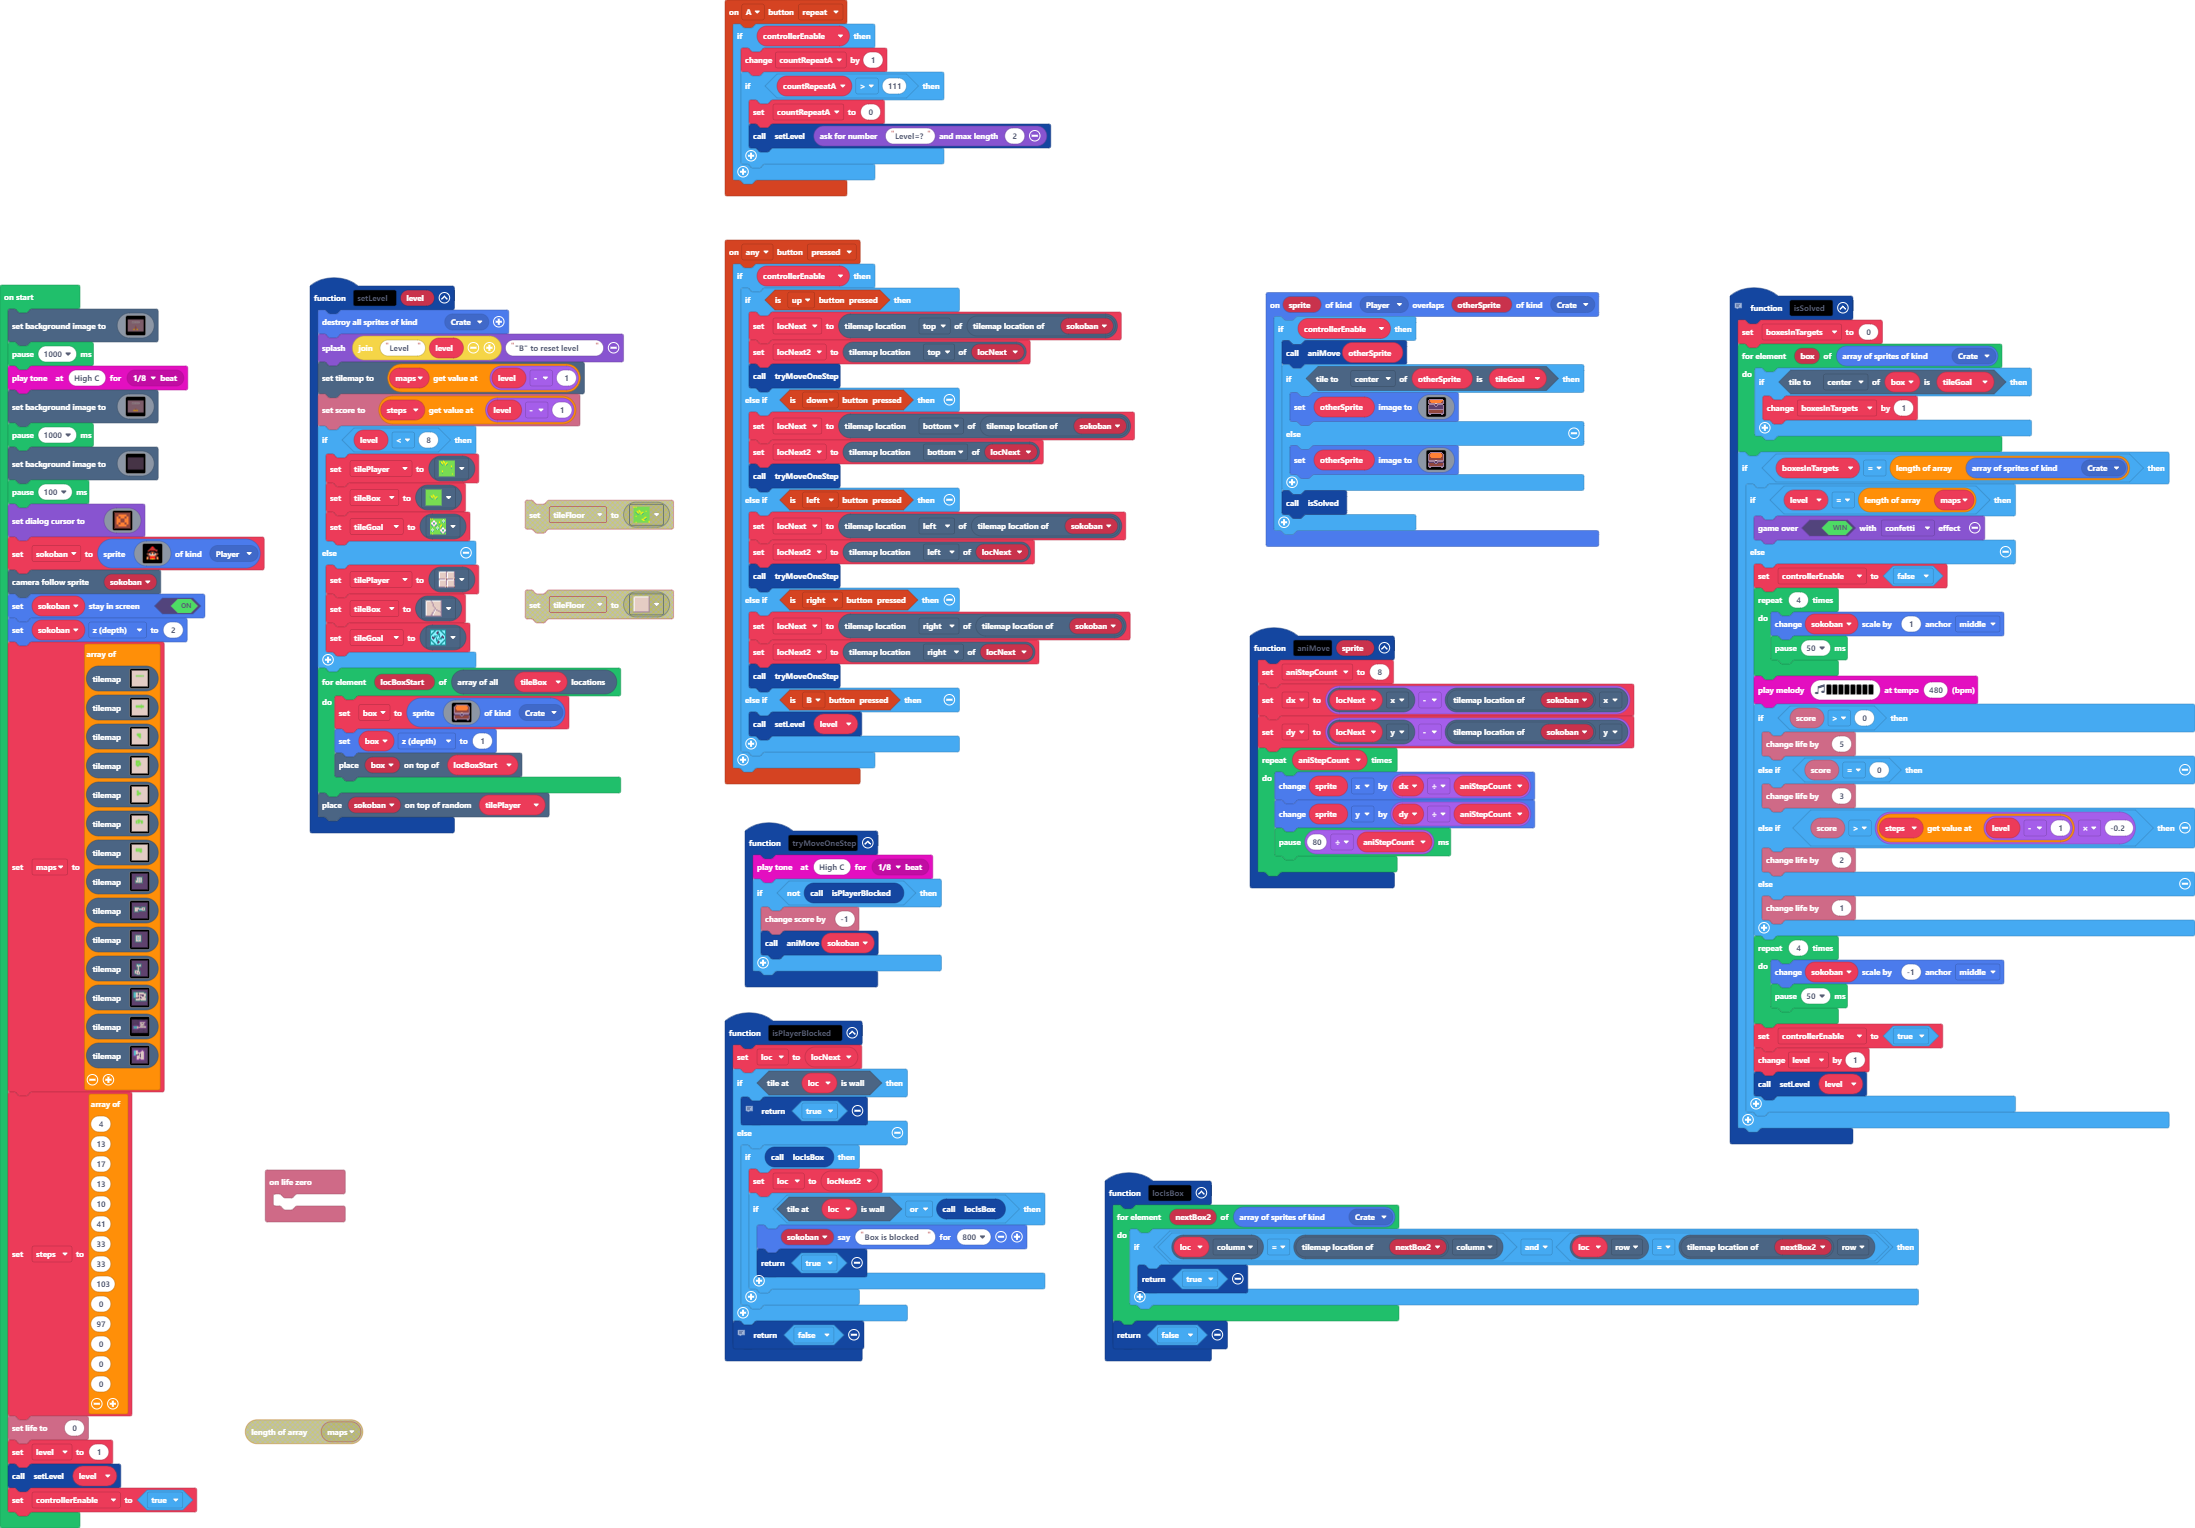
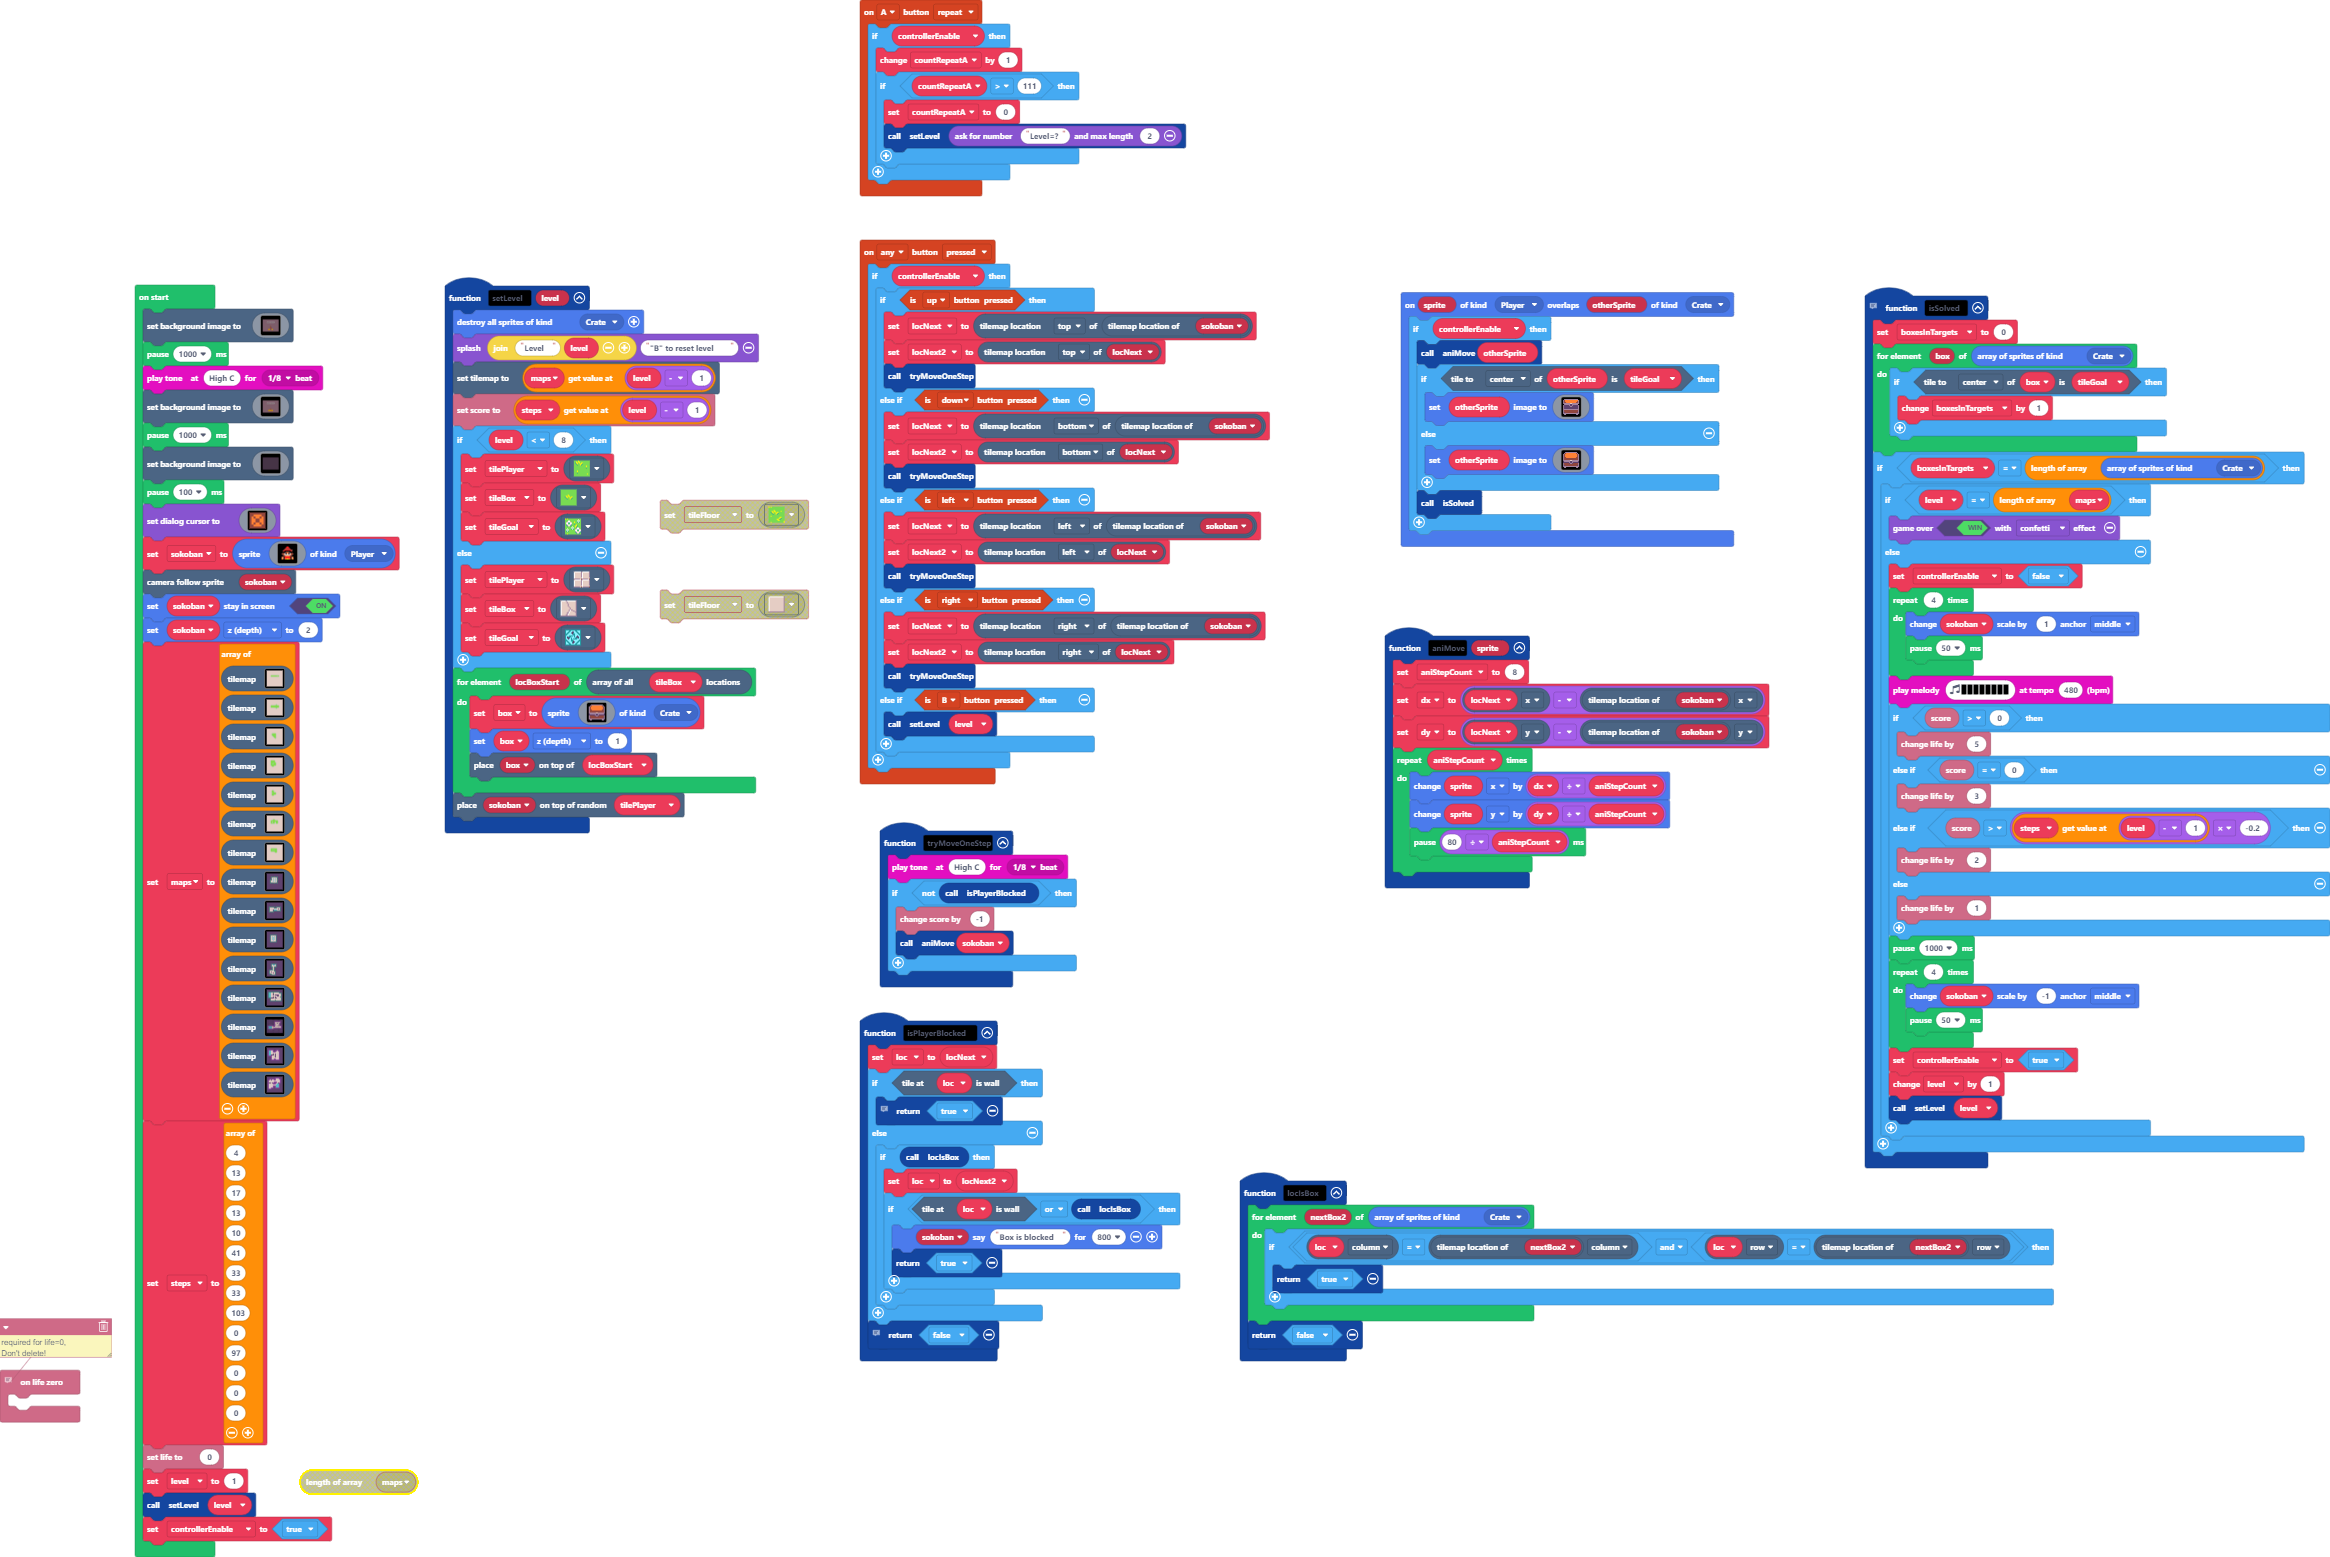
All 15 Levels complete

diff --git a/tilemap.g.ts b/tilemap.g.ts
@@ -596,6 +596,25 @@ namespace myTiles {
 . . . . . . . . . . . . . . . . 
 . . . . . . . . . . . . . . . . 
 `, [myTiles.transparency16,sprites.dungeon.collectibleInsignia,sprites.dungeon.floorLight2,sprites.dungeon.floorLight0,sprites.dungeon.floorLight5,sprites.dungeon.purpleOuterNorth0,sprites.dungeon.purpleOuterEast0,sprites.dungeon.purpleOuterWest0,sprites.dungeon.darkGroundCenter,sprites.dungeon.purpleOuterNorthEast,sprites.dungeon.purpleOuterSouthEast,sprites.dungeon.purpleOuterNorthWest,sprites.dungeon.purpleInnerSouthEast,sprites.dungeon.purpleInnerNorthEast,sprites.dungeon.purpleOuterSouth1,sprites.dungeon.purpleOuterSouthWest,sprites.dungeon.purpleInnerNorthWest,sprites.dungeon.purpleInnerSouthWest,sprites.dungeon.purpleOuterNorth1], TileScale.Sixteen);
+            case "level32":
[1 lines of base64/hex data omitted]
+. . . . . . . . . . . . . . . . 
+. . . . . . . . 2 2 2 2 2 . . . 
+. . 2 2 2 2 2 2 2 . . . 2 2 . . 
+. 2 2 . 2 . . 2 2 . . . . 2 . . 
+. 2 . . . . . . . . . . . 2 . . 
+. 2 . . . . . 2 2 2 . . . 2 . . 
+. 2 2 2 . 2 2 2 2 2 . 2 2 2 . . 
+. 2 . . . . 2 2 2 . . . 2 . . . 
+. 2 . . . . . . . . . . 2 . . . 
+. 2 . . . . 2 2 2 . . . 2 . . . 
+. 2 . . . . 2 . 2 . . . 2 . . . 
+. 2 . . 2 2 2 . 2 2 2 2 2 . . . 
+. 2 2 2 2 . . . . . . . . . . . 
+. . . . . . . . . . . . . . . . 
+. . . . . . . . . . . . . . . . 
+. . . . . . . . . . . . . . . . 
+`, [myTiles.transparency16,sprites.dungeon.floorLight2,sprites.dungeon.floorLight5,sprites.dungeon.collectibleInsignia,sprites.dungeon.floorLight0,sprites.dungeon.purpleOuterNorth0,sprites.dungeon.purpleOuterWest0,sprites.dungeon.purpleOuterEast0,sprites.dungeon.purpleOuterNorthWest,sprites.dungeon.purpleOuterSouthEast,sprites.dungeon.purpleOuterSouth1,sprites.dungeon.purpleOuterSouthWest,sprites.dungeon.purpleInnerNorthWest,sprites.dungeon.purpleOuterNorthEast,sprites.dungeon.purpleInnerSouthEast,sprites.dungeon.purpleInnerSouthWest,sprites.dungeon.purpleInnerNorthEast,sprites.dungeon.darkGroundCenter], TileScale.Sixteen);
         }
         return null;
     })

diff --git a/main.ts b/main.ts
@@ -179,6 +179,7 @@ function isSolved () {
             } else {
                 info.changeLifeBy(1)
             }
+            pause(1000)
             for (let index = 0; index < 4; index++) {
                 sokoban.changeScale(-1, ScaleAnchor.Middle)
                 pause(50)
@@ -189,6 +190,8 @@ function isSolved () {
         }
     }
 }
+// required for life=0,
+// Don't delete!
 info.onLifeZero(function () {
 	
 })
@@ -641,7 +644,8 @@ tilemap`level26`,
 tilemap`level27`,
 tilemap`level28`,
 tilemap`level30`,
-tilemap`level31`
+tilemap`level31`,
+tilemap`level32`
 ]
 steps = [
 4,
